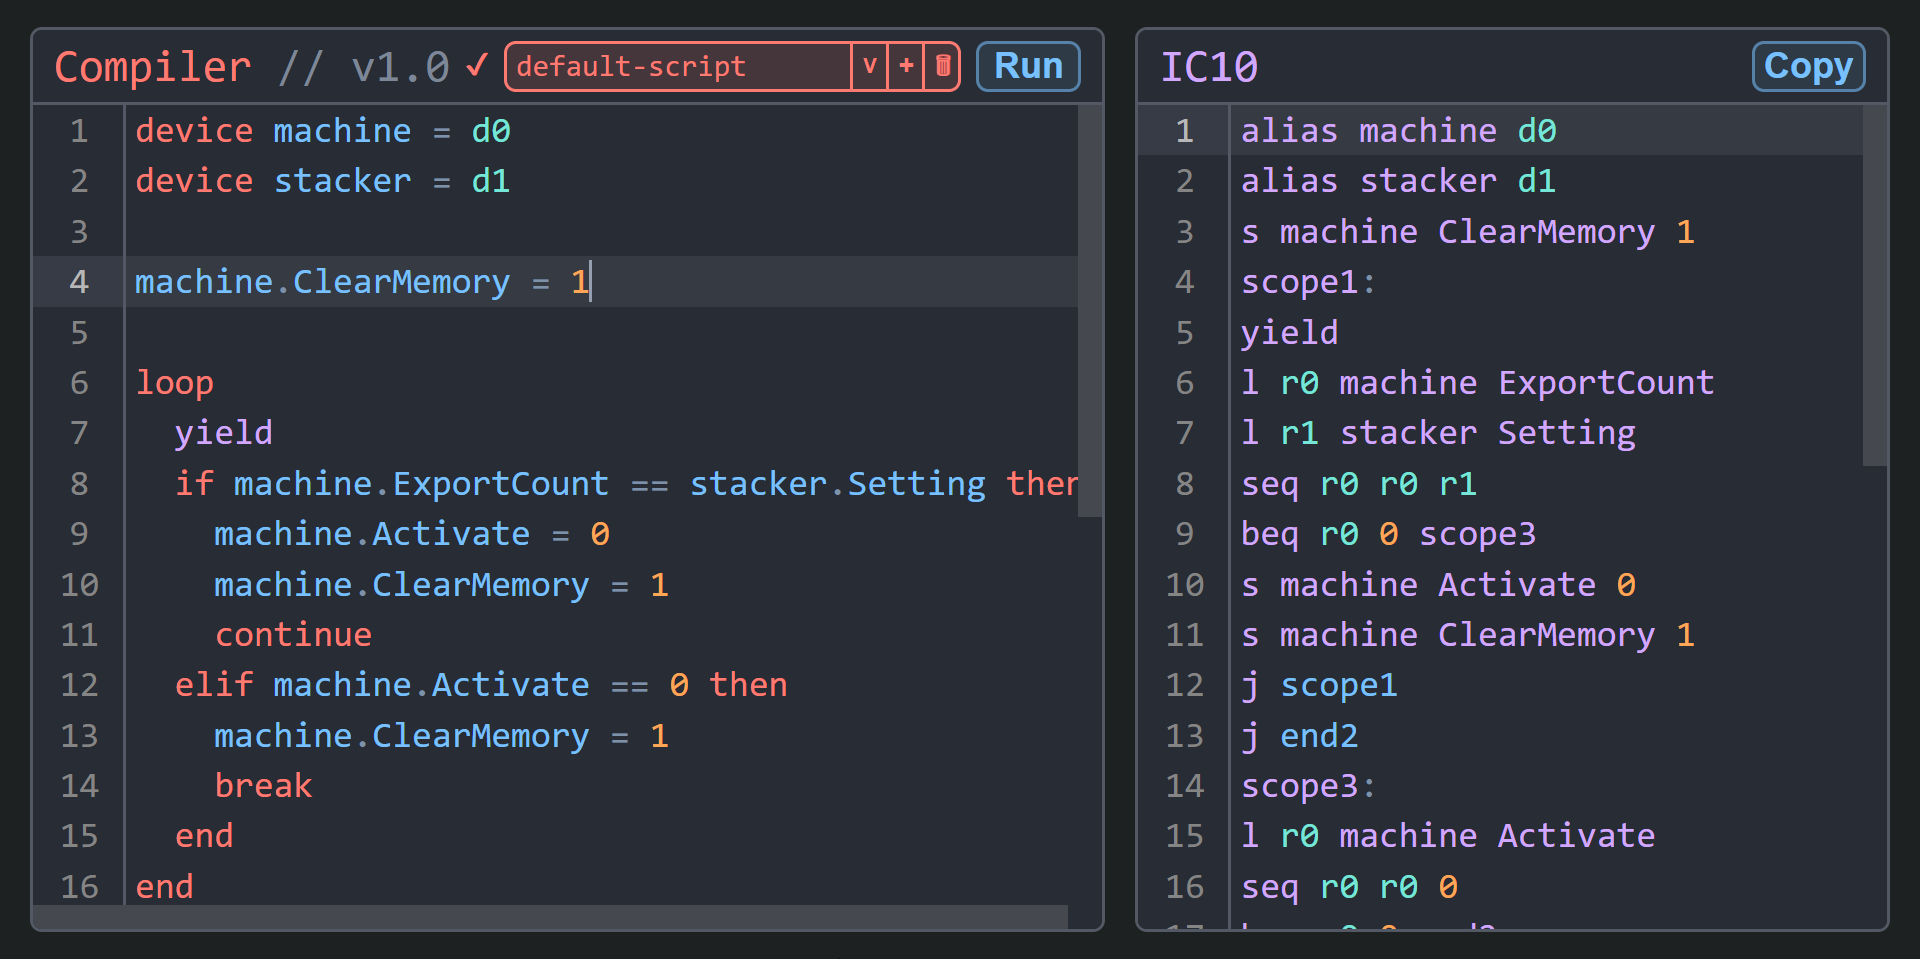
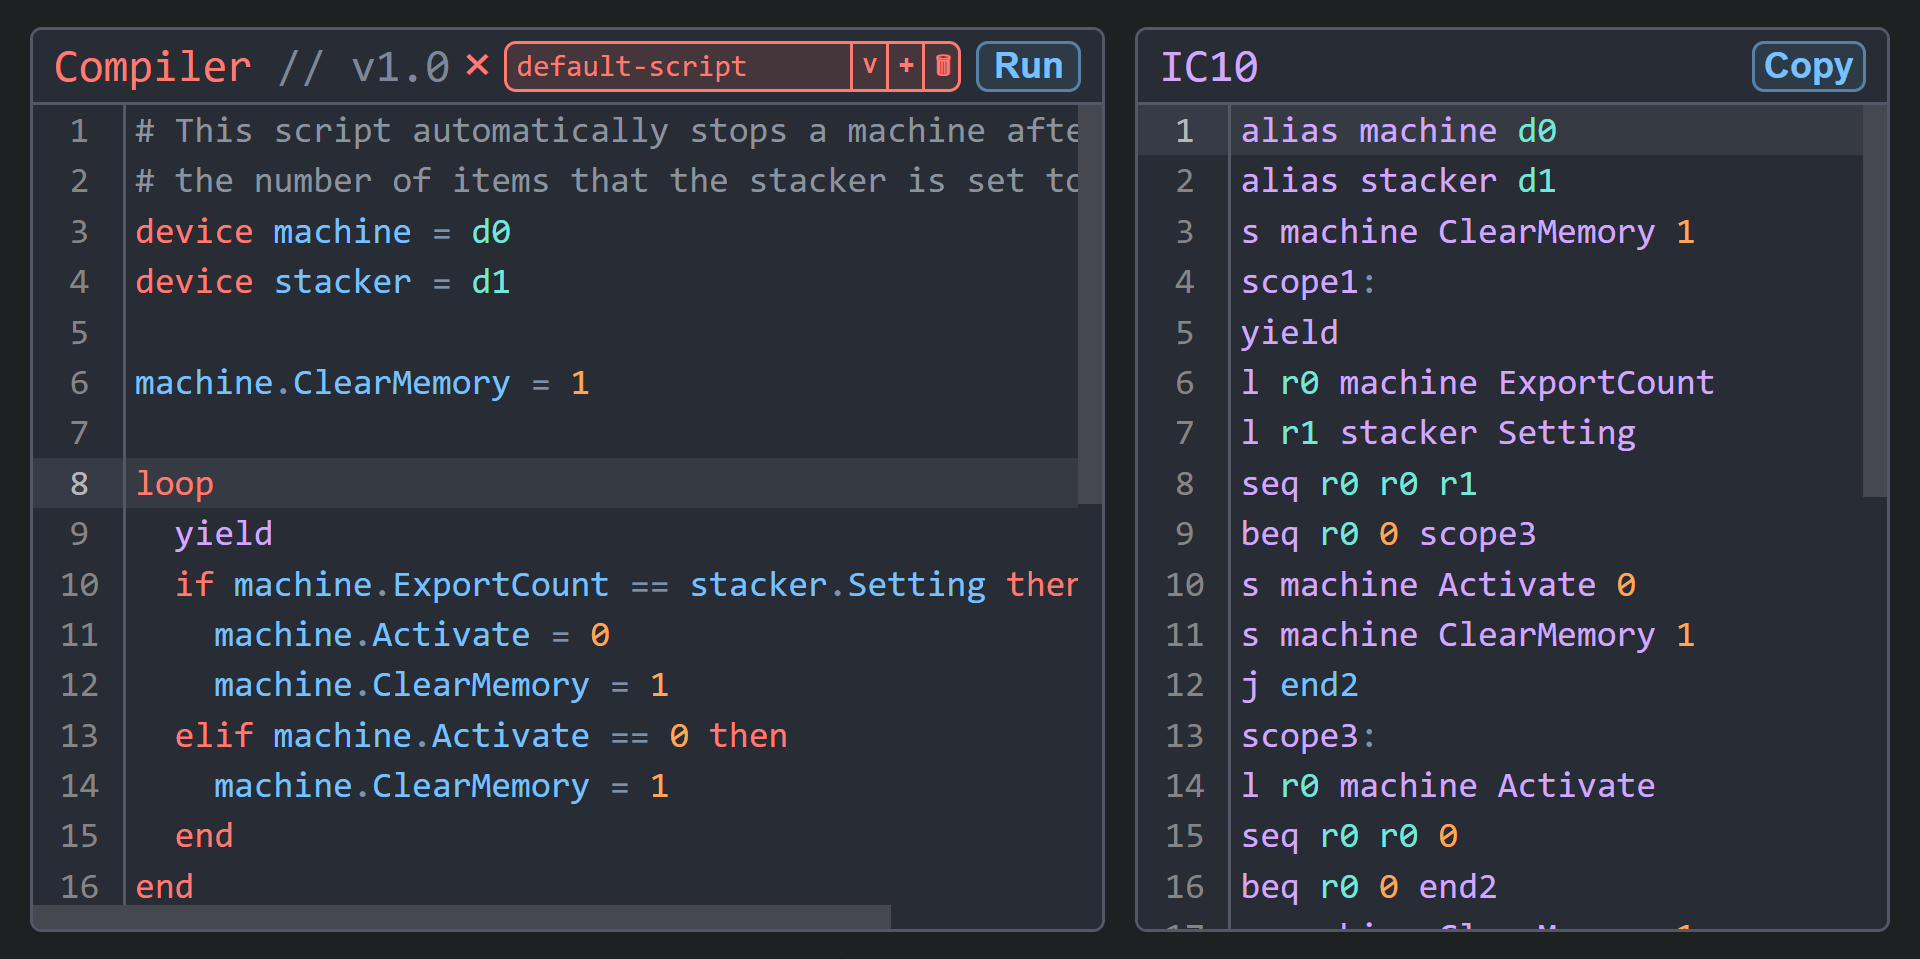
Updated example image

diff --git a/README.md b/README.md
@@ -1,7 +1,7 @@
 # High-Level Language for Stationeers IC10
 ### [>>> Visit Website <<<](https://emmennater.github.io/IC10-Compiler/)
 This is a `high-level language` for `IC10` that is meant to be fully `backwards compatible` with the standard IC10 programming language. Any function written that is not recognized by the compiler will be converted into an IC10 instruction.
-![1783363348960](image/README/example.png)
+![example](image/README/example.png)
 ## Using the Compiler
 When you first load the webpage a default script will be loaded. The `✖` next to the name `default-script` means the script is not saved.
 A checkmark `✔` indicates the script has been saved and you can safely retrieve it later.